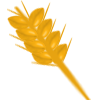
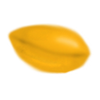
version 1 finished

diff --git a/sketch.js b/sketch.js
@@ -25,8 +25,8 @@ var s1;
 var s2;
 
 function preload(){
-  for (var i = 1; i <= 11; i++){
-    m[i] = loadImage('assets/' + i + '.png');
+  for (var i = 2, cnt = 0; i <= 2048; i *= 2, cnt++){
+    m[cnt] = loadImage('assets/' + i + '.png');
   }
   bg = loadImage("assets/bg.jpg");
   s1 = loadSound("assets/s1.wav");
@@ -44,7 +44,7 @@ function setup() {
 }
 
 function mouseClicked() {
-    if ((mouseY < 160 && mouseY > 60) && (mouseX < 350 && mouseX > 250)) {
+    if ((mouseY < 160 && mouseY > 60) && (mouseX < 490 && mouseX > 380)) {
         data.fill(0);
         generateRandomTwo();
         data[sec] = 2;
@@ -241,8 +241,8 @@ function draw() {
     textSize(24);
     //text("Best:", 55, 105);
     //text("Score:", 55, 145);
-    text("New", 405, 110);
-    text("Game", 400, 140);
+    text("New", 415, 105);
+    text("Game", 407, 135);
     text("MS Cake Kitchen", 110, 110);
     text("Join the materials & get the MScake!", 80, 210);
     drawGrid();
@@ -265,13 +265,7 @@ function generateRandomTwo() {
 function drawGrid() {
     for (var i = 0; i < 16; i++) {
         if (data[i] !== 0) {
-            text(data[i], grid[i][0], grid[i][1]);
-            //if(data[i] === 2){
-              //image(m[0], grid[i][0], grid[i][1]);
-              //image(s, 300, 400);
-            //}
+            image(m[Math.log2(data[i]) - 1], grid[i][0] - 50, grid[i][1] - 60);
         }
     }
-    
-    
 }
